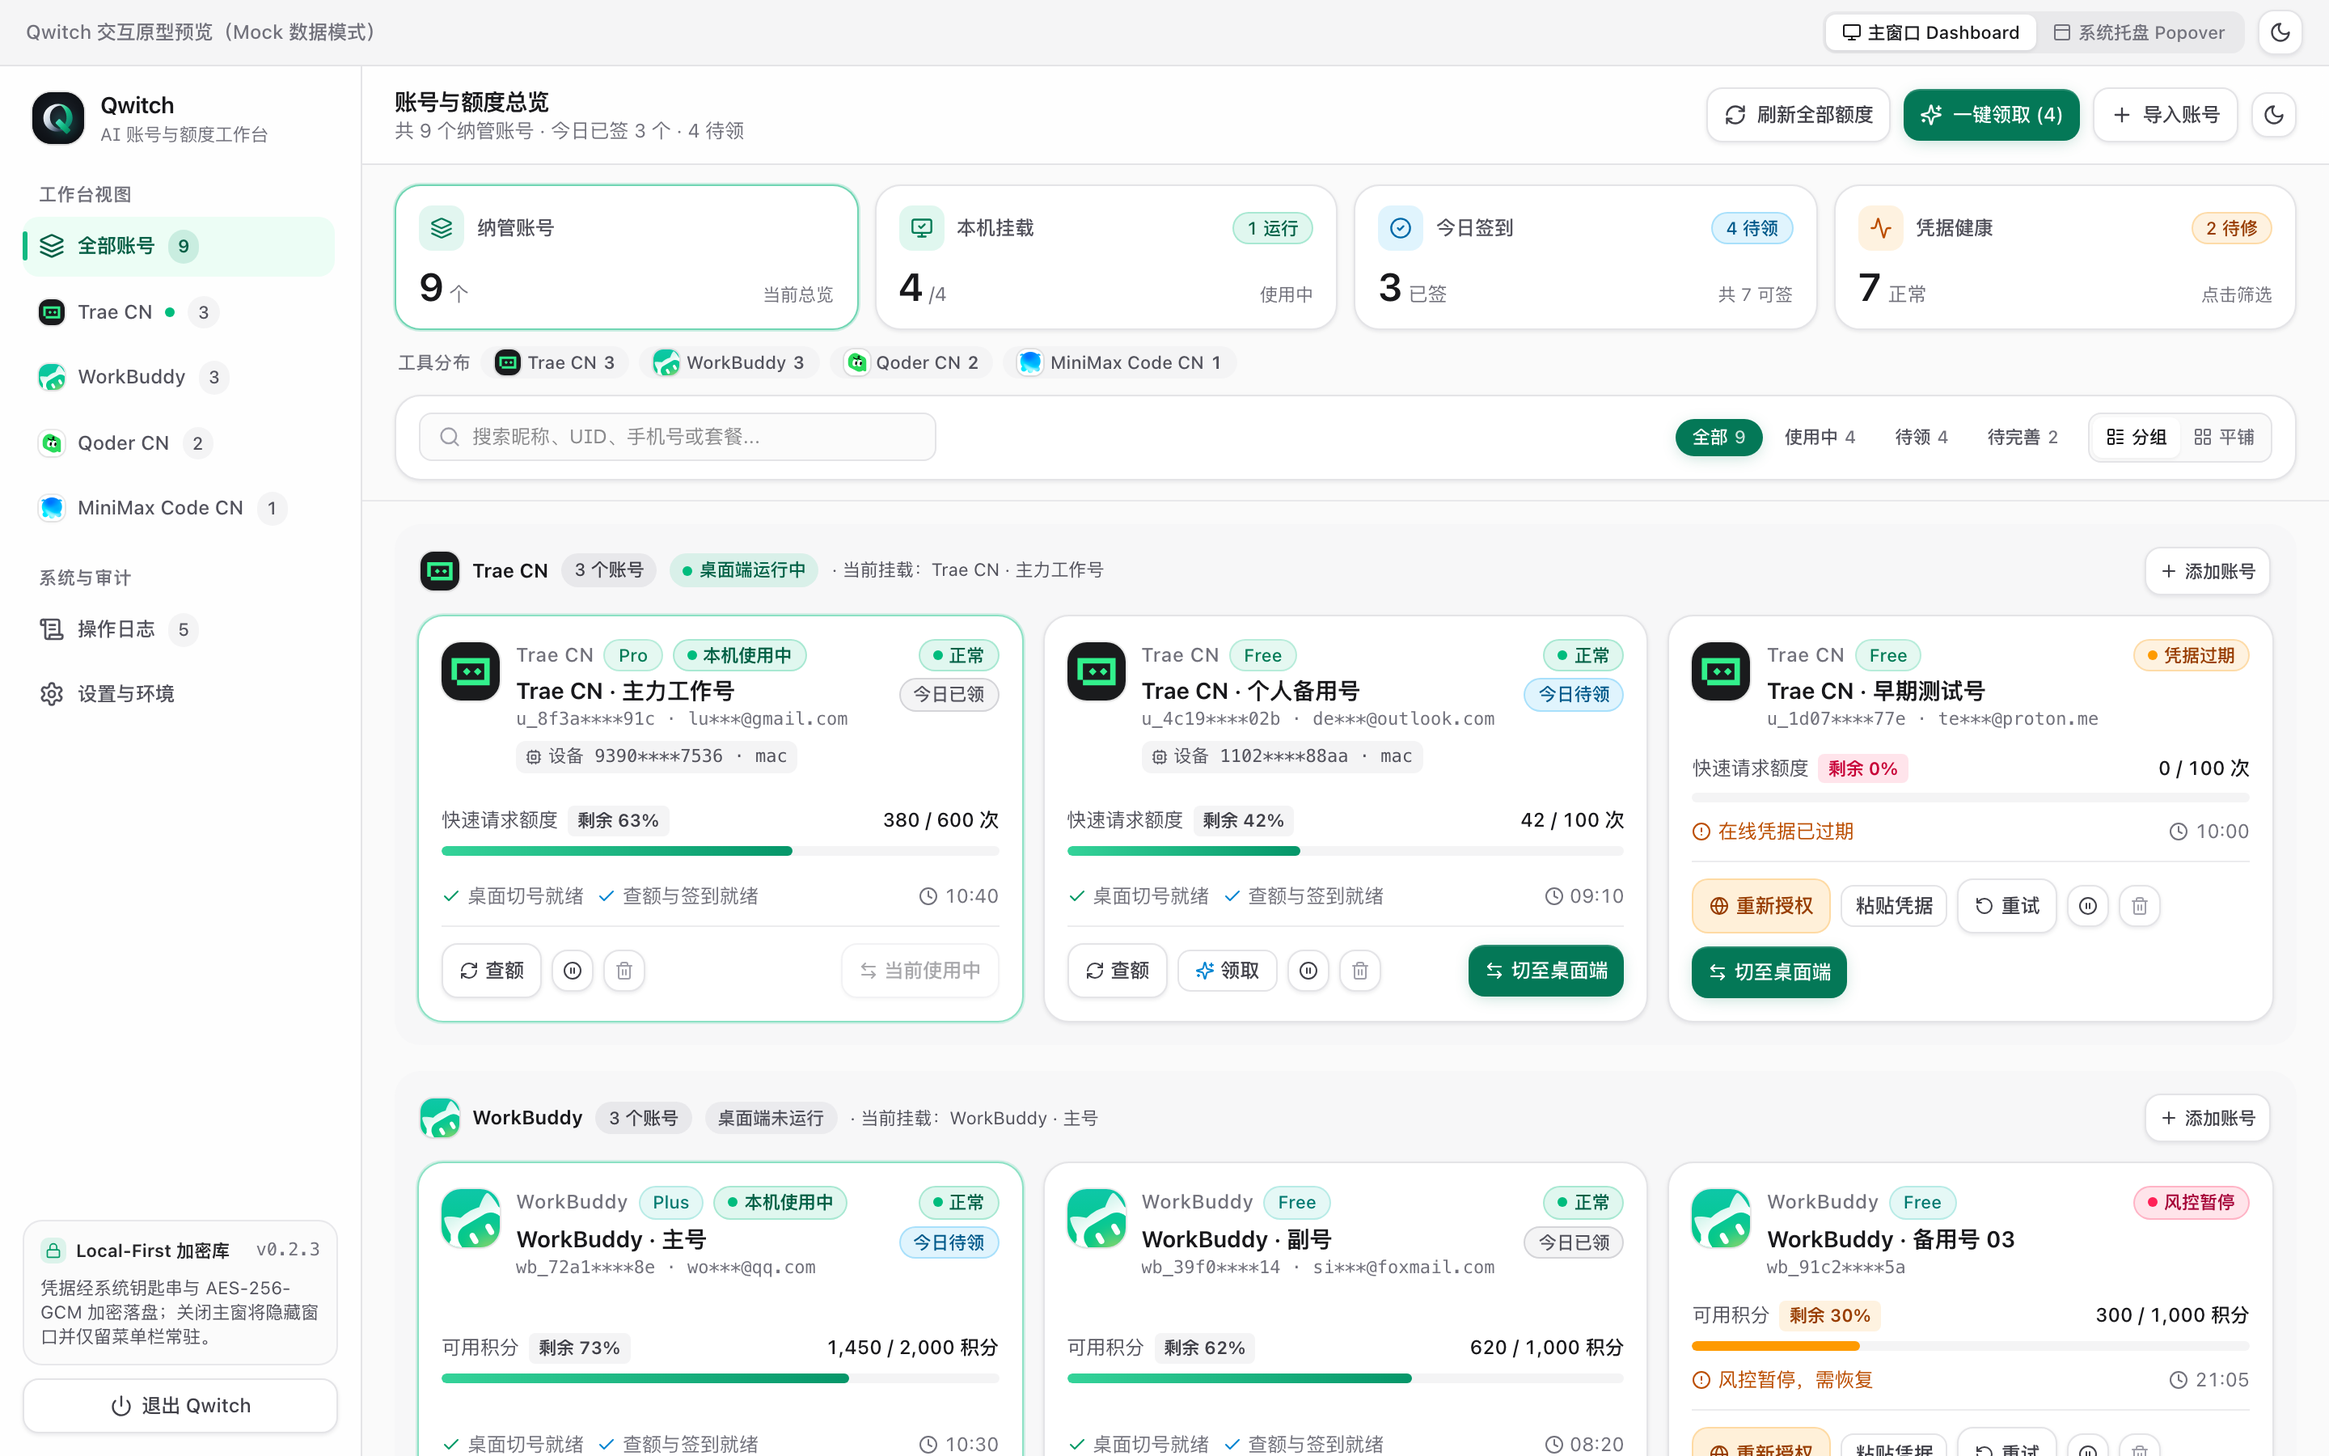
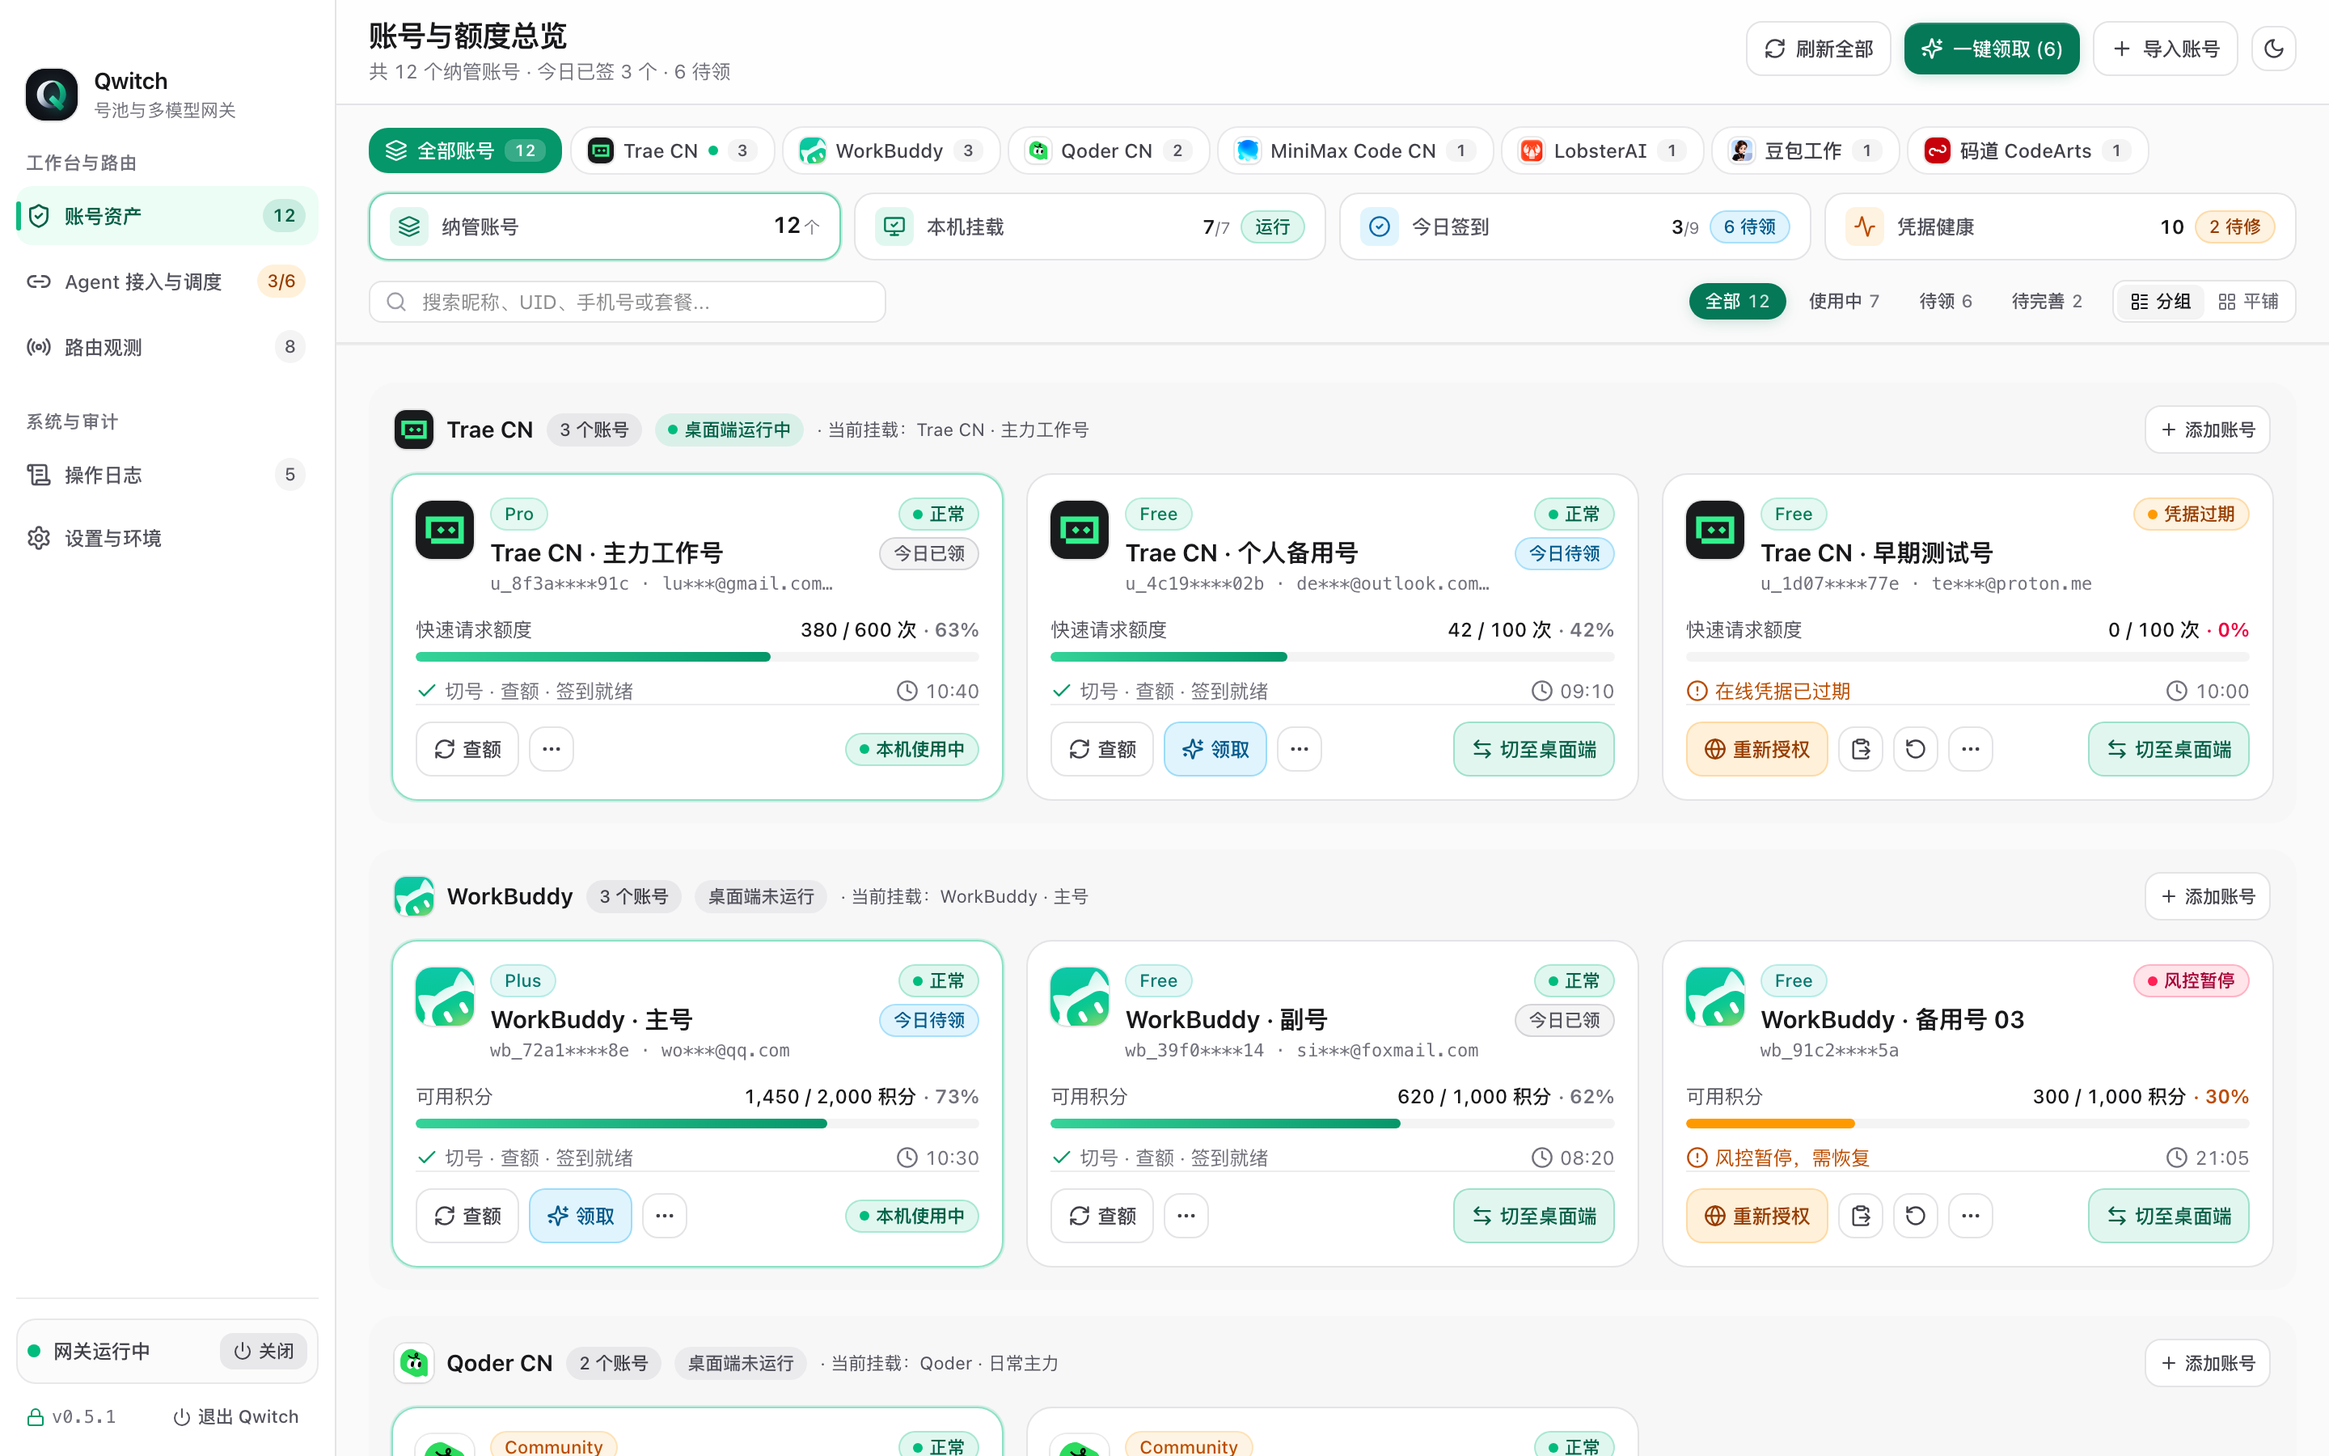
docs(readme): 重拍 v0.5.1 当前界面截图并同步功能与数据口径
- 替换主窗口、托盘与设置截图，新增 Agent 接入、路由观测及托盘号池视图
- 移除过时截图说明，补齐重新探测、强制清除、端口持久化与路由筛选等已落地能力
- 核对 206 Rust / 130 前端测试、73 个 IPC 命令与 npm audit 0 漏洞，并更新文档索引与路线图

diff --git a/README.md b/README.md
@@ -31,20 +31,29 @@
 
 ## 产品截图
 
-> 截图来自浏览器 Mock 预览模式，账号与额度均为示例数据。
->
-> **注意**：截图拍摄于本轮「本地网关 / Agent 接入与调度 / 路由观测」升级与视觉体系重构之前，界面细节与导航布局（现为 5 大功能域 + 托盘双态面板）与当前版本存在差异，核心交互风格仍具参考价值。
+> 截图来自浏览器 Mock 预览模式（v0.5.1），账号、额度、路由记录与 Agent 配置均为示例数据。
 
-| 主窗口 · 浅色 | 主窗口 · 深色 |
+| 主窗口 · 账号资产（浅色） | 主窗口 · 账号资产（深色） |
 | :---: | :---: |
-| ![Dashboard 浅色](docs/assets/screenshots/dashboard-light.png) | ![Dashboard 深色](docs/assets/screenshots/dashboard-dark.png) |
+| ![账号资产 浅色](docs/assets/screenshots/dashboard-light.png) | ![账号资产 深色](docs/assets/screenshots/dashboard-dark.png) |
 
-| 系统托盘 · 浅色 | 系统托盘 · 深色 |
+| Agent 接入与号池调度（深色） | 网关路由观测与决策链路（深色） |
 | :---: | :---: |
-| <img src="docs/assets/screenshots/tray-light.png" width="380" alt="托盘弹层 浅色" /> | <img src="docs/assets/screenshots/tray-dark.png" width="380" alt="托盘弹层 深色" /> |
+| ![Agent 接入与号池调度](docs/assets/screenshots/agents-dark.png) | ![网关路由观测](docs/assets/screenshots/routing-dark.png) |
+
+| 系统托盘 · 账号与签到（浅色） | 系统托盘 · 账号与签到（深色） |
+| :---: | :---: |
+| <img src="docs/assets/screenshots/tray-light.png" width="380" alt="托盘账号与签到 浅色" /> | <img src="docs/assets/screenshots/tray-dark.png" width="380" alt="托盘账号与签到 深色" /> |
 
 <details>
-<summary><b>设置与环境（深色）</b>：常驻偏好、自动化策略、防风控调度、日志保留、本地网关端口、适配器与客户端路径</summary>
+<summary><b>系统托盘 · 号池与指向（深色）</b>：网关启停、Agent 默认模型热切、漂移修复与号池聚合水位</summary>
+
+<img src="docs/assets/screenshots/tray-pools-dark.png" width="380" alt="托盘号池与指向 深色" />
+
+</details>
+
+<details>
+<summary><b>设置与环境（深色）</b>：常驻偏好、自动化策略、日志保留、本地网关端口与占用检测、客户端环境探测与路径覆盖</summary>
 
 ![设置页 深色](docs/assets/screenshots/settings-dark.png)
 
@@ -61,10 +70,10 @@
 
 ### 🔗 目标 Agent 一键接入与安全还原
 
-- **6 大目标 Agent + 通用标准端点**：直接在「Agent 接入与调度」3 分区工作台（模型配置 / 账号调度 / 接入设置）内按订阅工具勾选开放模型、设置 `★ 默认模型`、编排同工具主备顺位并一键同步至全部 Agent。
-- **实时模型探测与智能筛选**：支持一键拉取上游真实模型目录，提供搜索与「全部 / 已勾选 / 免费低倍率 / 主力旗舰」快捷筛选及批量勾选工具栏。
-- **Stash 加密备份与无损还原**：修改目标 Agent 配置文件前自动将原文件 AES-256-GCM 加密存入 Stash，操作前通过 `ConfigDiffModal` 透明预览 Before/After 差异；配置解析失败时直接中止写入，绝不以空文档覆盖用户原有配置；支持配置漂移检测与一键修复、无损解绑还原与强制清除。
-- **桌面客户端平滑重启**：内置优雅退出 → 轮询确认退出 → 重启机制（含 Claude 独立双开副本与 DSH），修改网关端口后可一键批量重启运行中的桌面 Agent。
+- **6 大目标 Agent + 通用标准端点**：直接在「Agent 接入与号池调度」3 分区工作台（模型配置 / 账号调度 / 接入设置）内按订阅工具勾选开放模型、设置 `★ 默认模型`、编排同工具主备顺位并一键同步至全部 Agent。
+- **实时模型探测与智能筛选**：支持一键拉取上游真实模型目录，提供搜索与「全部 / 已勾选 / 免费低倍率 / 主力旗舰」快捷筛选及批量勾选工具栏；接入卡实时显示模型数、挂载号池与 `配置漂移 / 已挂载 / 未挂载` 状态。
+- **Stash 加密备份与无损还原**：修改目标 Agent 配置文件前自动将原文件 AES-256-GCM 加密存入 Stash，操作前通过 `ConfigDiffModal` 透明预览 Before/After 差异；配置解析失败时直接中止写入，绝不以空文档覆盖用户原有配置；支持配置漂移检测与一键修复、无损解绑还原、按 Agent 或全部强制清除 Qwitch 写入。
+- **桌面客户端平滑重启与重新探测**：内置优雅退出 → 轮询确认退出 → 重启机制（含 Claude 独立双开副本与 DSH），修改网关端口后可一键批量重启运行中的桌面 Agent；未安装客户端自动禁用重启入口，并支持重新探测本机 Agent 环境。
 
 ### 📡 路由观测与连通性演练
 
@@ -109,7 +118,7 @@
 | **WorkBuddy** | 本机凭据导入 · 内置授权 · Token | 签到状态监控、一键签到与积分领取 | ✅ 一键冷切换 | ✅ 支持入池（含通道兼容清洗） |
 | **Qoder CN** | 本机导入 · 内置 PKCE 授权 · PAT | 活动 Credits 水位、一键领取 | ✅ 一键冷切换 | ✅ 支持入池 |
 | **MiniMax Code CN** | 本机导入 · 内置设备码授权 · Token | 积分水位、每日签到领取 | ✅ 一键冷切换 | ✅ 支持入池（Anthropic 原生） |
-| **LobsterAI** | 内置 OAuth 授权 · 本机导入 · Token | 积分水位监控、每日签到领取 | ✅ 一键冷切换 | ✅ 支持入池 |
+| **LobsterAI（有道龙虾）** | 内置 OAuth 授权 · 本机导入 · Token | 积分水位监控、每日签到领取 | ✅ 一键冷切换 | ✅ 支持入池 |
 | **豆包工作（DoubaoWork）** | 内置 WebView Cookie 授权 · 本机导入 · Cookie/cURL | 多维度额度与额度包监控、每日签到 | ✅ 一键冷切换 | ✅ 支持入池 |
 | **码道 CodeArts** | 本机导入（safeStorage）· Token | 积分水位监控（华为云 AK/SK 签名） | — 仅监控 | ⚠ 需独立 OAuth 隔离授权后入池 |
 | **通用 API Key** | API Key + Base URL | — | — | ✅ 锁定 T3 兜底档 |
@@ -161,8 +170,8 @@ npm run tauri build    # 构建本地安装包
 1. **导入账号**：主窗口「账号资产 → 导入账号」→ 选择工具 → 本机导入 / 内置授权 / 粘贴 Token；
 2. **查看额度与领取**：卡片自动展示额度水位与签到状态，可单卡刷新或一键批量领取（串行 + 抖动）；
 3. **切换桌面账号**：卡片「切换」→ 确认冷切换，客户端自动重启至目标账号；
-4. **接入 Agent 与号池调度**：进入「Agent 接入与调度」→ 启动本地网关（默认 `127.0.0.1:8187`）→ 选择目标 Agent 并勾选订阅工具模型、编排主备顺位 → 重启对应桌面客户端即可使用；
-5. **路由观测与托盘速览**：在「路由观测」查看每次请求的协议转换与 Failover 明细，或通过菜单栏托盘随时切换账号、启停网关与热切默认模型。
+4. **接入 Agent 与号池调度**：进入「Agent 接入与调度」→ 启动本地网关（默认 `127.0.0.1:8187`）→ 选择目标 Agent 并勾选订阅工具模型、编排主备顺位 → 重启对应桌面客户端即可使用；端口可在「设置与环境 → 客户端环境」修改，并一键批量重启已挂载的桌面 Agent；
+5. **路由观测与托盘速览**：在「路由观测」按来源 Agent、关键词或「仅看失败 / 仅看 Failover」筛选每次请求的协议转换与逐跳尝试明细，或通过菜单栏托盘随时切换账号、启停网关与热切默认模型。
 
 ## 配置项
 
@@ -279,7 +288,7 @@ cargo fmt --check && cargo clippy --all-targets -- -D warnings
 
 **CI/CD**
 
-- `ci.yml`：push / PR 触发，macOS + Windows 双平台执行生产依赖审计、ESLint、前端构建与测试、`shellcheck`（Linux）、Rust `cargo audit` / fmt / clippy / test。
+- `ci.yml`：push / PR 触发，macOS + Windows 双平台执行生产依赖审计、ESLint、前端构建与测试、Tauri `--no-bundle` 构建冒烟、`shellcheck`（Linux）、Rust `cargo audit` / fmt / clippy / test。
 - `release.yml`：`v*` 标签触发，先跑验证门禁，再构建 macOS ARM64、macOS Intel 与 Windows x64 三个独立安装包并上传至 GitHub Release（自动发布 latest）。
 
 **发布前手工清单**：空数据目录首装 · 备份恢复到冲突钥匙串环境 · 慢启动客户端切号 · 托盘 / Dock 行为 · 本地网关端到端路由与目标 Agent 重启生效。
@@ -299,6 +308,9 @@ cargo fmt --check && cargo clippy --all-targets -- -D warnings
 | [品牌与命名规范](docs/BRAND_IDENTITY.md) | Qwitch 品牌定位、命名与视觉原则 |
 | [前端体验审计](docs/FRONTEND_UX_AUDIT.md) | 历史基线问题表与修复状态标注 |
 | [后端安全审计](docs/BACKEND_ARCH_REVIEW.md) | 历史基线问题表与修复状态标注 |
+| [全方位深度审查](docs/PROJECT_AUDIT_REPORT.md) | 2026-11-20 全项目功能、安全、性能与工程质量审查 |
+| [项目认知总结](docs/PROJECT_COGNITION_SUMMARY.md) | 二次开发基线：模块职责、关键流程与易错点 |
+| [UI 视觉质感优化报告](docs/UI_VISUAL_REFINEMENT.md) | 视觉层级、密度、动效与控件质感的设计与实现基线 |
 | [综合优化路线图](docs/OPTIMIZATION_ROADMAP.md) | 四阶段 Sprint 排期、完成度与接口变更总表 |
 | [项目理解报告](docs/PROJECT_UNDERSTANDING_REPORT.md) | 全项目深度认知基线：目标、模块、流程、实测质量基线、问题分级与待确认事项 |
 | [优化执行计划](docs/OPTIMIZATION_EXECUTION_PLAN.md) | A/B/C/D 四阶段落地记录：实现要点、回归测试与延后项依据 |
@@ -317,7 +329,10 @@ cargo fmt --check && cargo clippy --all-targets -- -D warnings
 - [x] 本地多协议网关（默认 `127.0.0.1:8187`，端口可配/检测/持久化）+ 统一 IR 互转 + `tools`/`tool_choice` 完整透传
 - [x] 同协议零拷贝 SSE 透传 + 跨协议文本实时增量流式（含 UTF-8 安全解码与 tool_use/tool_calls 映射）
 - [x] 6 大目标 Agent 一键挂载（Codex / Claude / DSH / OpenCode / MiMo Code / ZCode）+ Stash 加密备份/无损还原 + 漂移检测 + 桌面端优雅重启
-- [x] 路由观测面板、连通性演练弹窗（429/401 故障注入）与双态托盘热切体验
+- [x] 网关随机绑定令牌全路由鉴权、请求/响应体积上限、上游 `base_url` 白名单与 600s 长超时专用连接
+- [x] 号池写库事务化、Agent 配置解析失败中止、多文件写入 Stash 回滚、Mock 生产门禁与并发乱序保护
+- [x] 网关端口 `8187` 持久化 + 占用检测 + 已挂载 Agent 自动重写 + 运行中桌面客户端批量重启
+- [x] 路由观测面板（来源 / 关键词 / 仅看失败 / 仅看 Failover 筛选与空态）、连通性演练弹窗（429/401 故障注入）与双态托盘热切体验
 - [ ] 代码签名 / 公证与自动更新（release.yml 已接入可选 Apple 签名 secrets；**需提供 Apple Developer 证书/凭证**方可真正签名公证；Windows 自动安装已具备）
 - [ ] OpenAI Responses 跨协议增量流式默认启用（当前已实现并通过集成测试，可通过 `QWITCH_GATEWAY_RESPONSES_STREAMING=1` 启用，待真机 Codex 长对话回归后转正）
 - [ ] Context 订阅粒度拆分、`julianday` 索引重建、日志列表虚拟化（当前规模下无感，按需启动）
@@ -370,7 +385,7 @@ xattr -dr com.apple.quarantine /Applications/Qwitch.app
 <details>
 <summary><b>修改本地网关端口后，已打开的桌面 Agent 怎么生效？</b></summary>
 
-修改端口时 Qwitch 会自动检测端口占用、重启本地网关并重新同步所有已挂载 Agent 的配置文件，同时将新端口持久化到应用设置。对于 **Claude 桌面版、Codex 桌面版、MiMo Code、ZCode** 等启动时读取配置的桌面客户端，可在「系统设置 → 客户端环境」修改端口后直接确认一键批量重启，或在「Agent 接入与调度」页点击单个客户端的「重启」按钮。
+修改端口时 Qwitch 会自动检测端口占用、重启本地网关并重新同步所有已挂载 Agent 的配置文件，同时将新端口持久化到应用设置。对于 **Claude 桌面版、Codex 桌面版、MiMo Code、ZCode** 等启动时读取配置的桌面客户端，可在「设置与环境 → 客户端环境」修改端口后直接确认一键批量重启，或在「Agent 接入与调度」页点击单个客户端的「重启」按钮。
 </details>
 
 <details>
